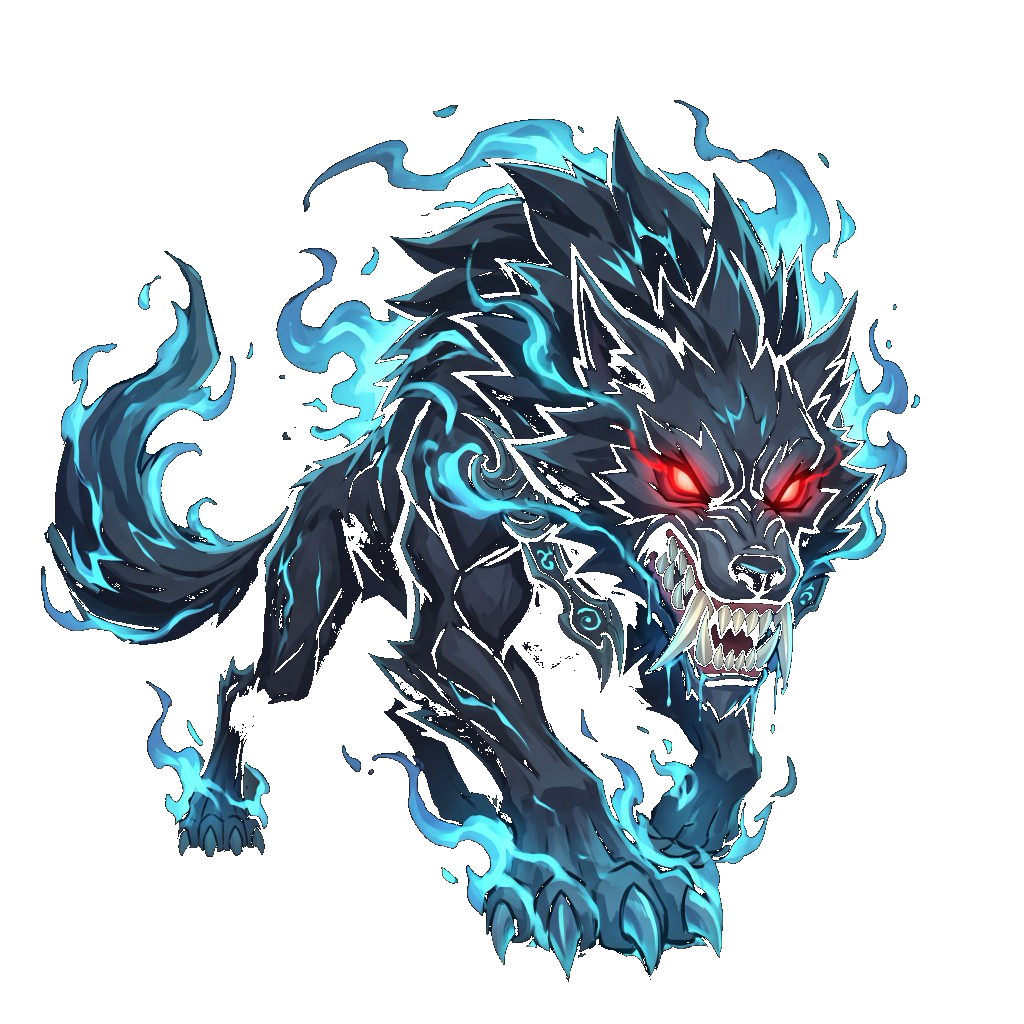
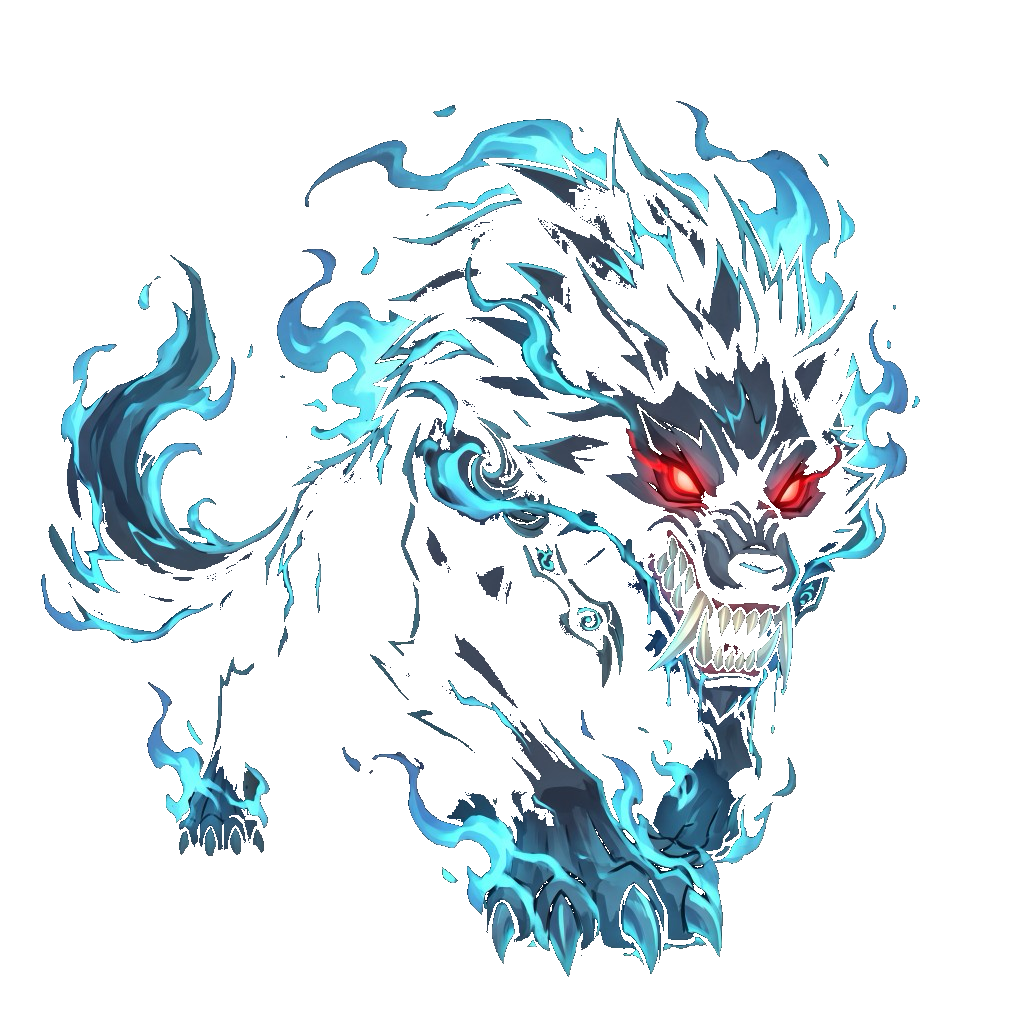
Remove remaining black matte from demon wolf sprite rendering.
Flood-fill transparent PNG edges, use screen blend and filter glow so the wolf blends into the battle background.

diff --git a/src/components/EnemyPanel.tsx b/src/components/EnemyPanel.tsx
@@ -47,14 +47,14 @@ export function EnemyPanel({
     <div className="relative bg-transparent">
       {monster ? (
         <div
-          className={`enemy-sprite-stage relative mx-auto mb-2 flex h-40 w-full max-w-[16rem] items-end justify-center bg-transparent ${
-            shaking ? "animate-shake" : isDefeated ? "" : "animate-qi-breathe"
+          className={`enemy-sprite-stage relative mx-auto mb-2 flex h-40 w-full max-w-[16rem] items-end justify-center ${
+            shaking ? "animate-shake" : ""
           }`}
         >
           <img
             src={monster.image}
             alt={monster.name}
-            className={`enemy-sprite max-h-full w-auto bg-transparent object-contain drop-shadow-[0_0_20px_rgba(6,182,212,0.4)] transition-all duration-500 ${
+            className={`enemy-sprite max-h-full w-auto object-contain transition-all duration-500 ${
               isDefeated ? "scale-90 opacity-40 grayscale" : ""
             }`}
             draggable={false}

diff --git a/src/app/globals.css b/src/app/globals.css
@@ -58,13 +58,18 @@
 .animate-seal-pulse { animation: seal-pulse 4s ease-in-out infinite; }
 
 .enemy-sprite-stage {
-  background: transparent;
+  background: transparent !important;
   border: none;
   box-shadow: none;
+  overflow: visible;
 }
 
 .enemy-sprite {
-  background: transparent;
+  background: transparent !important;
+  border: none;
+  box-shadow: none;
+  mix-blend-mode: screen;
+  filter: drop-shadow(0 0 20px rgba(6, 182, 212, 0.45));
 }
 
 @keyframes fade-in {
